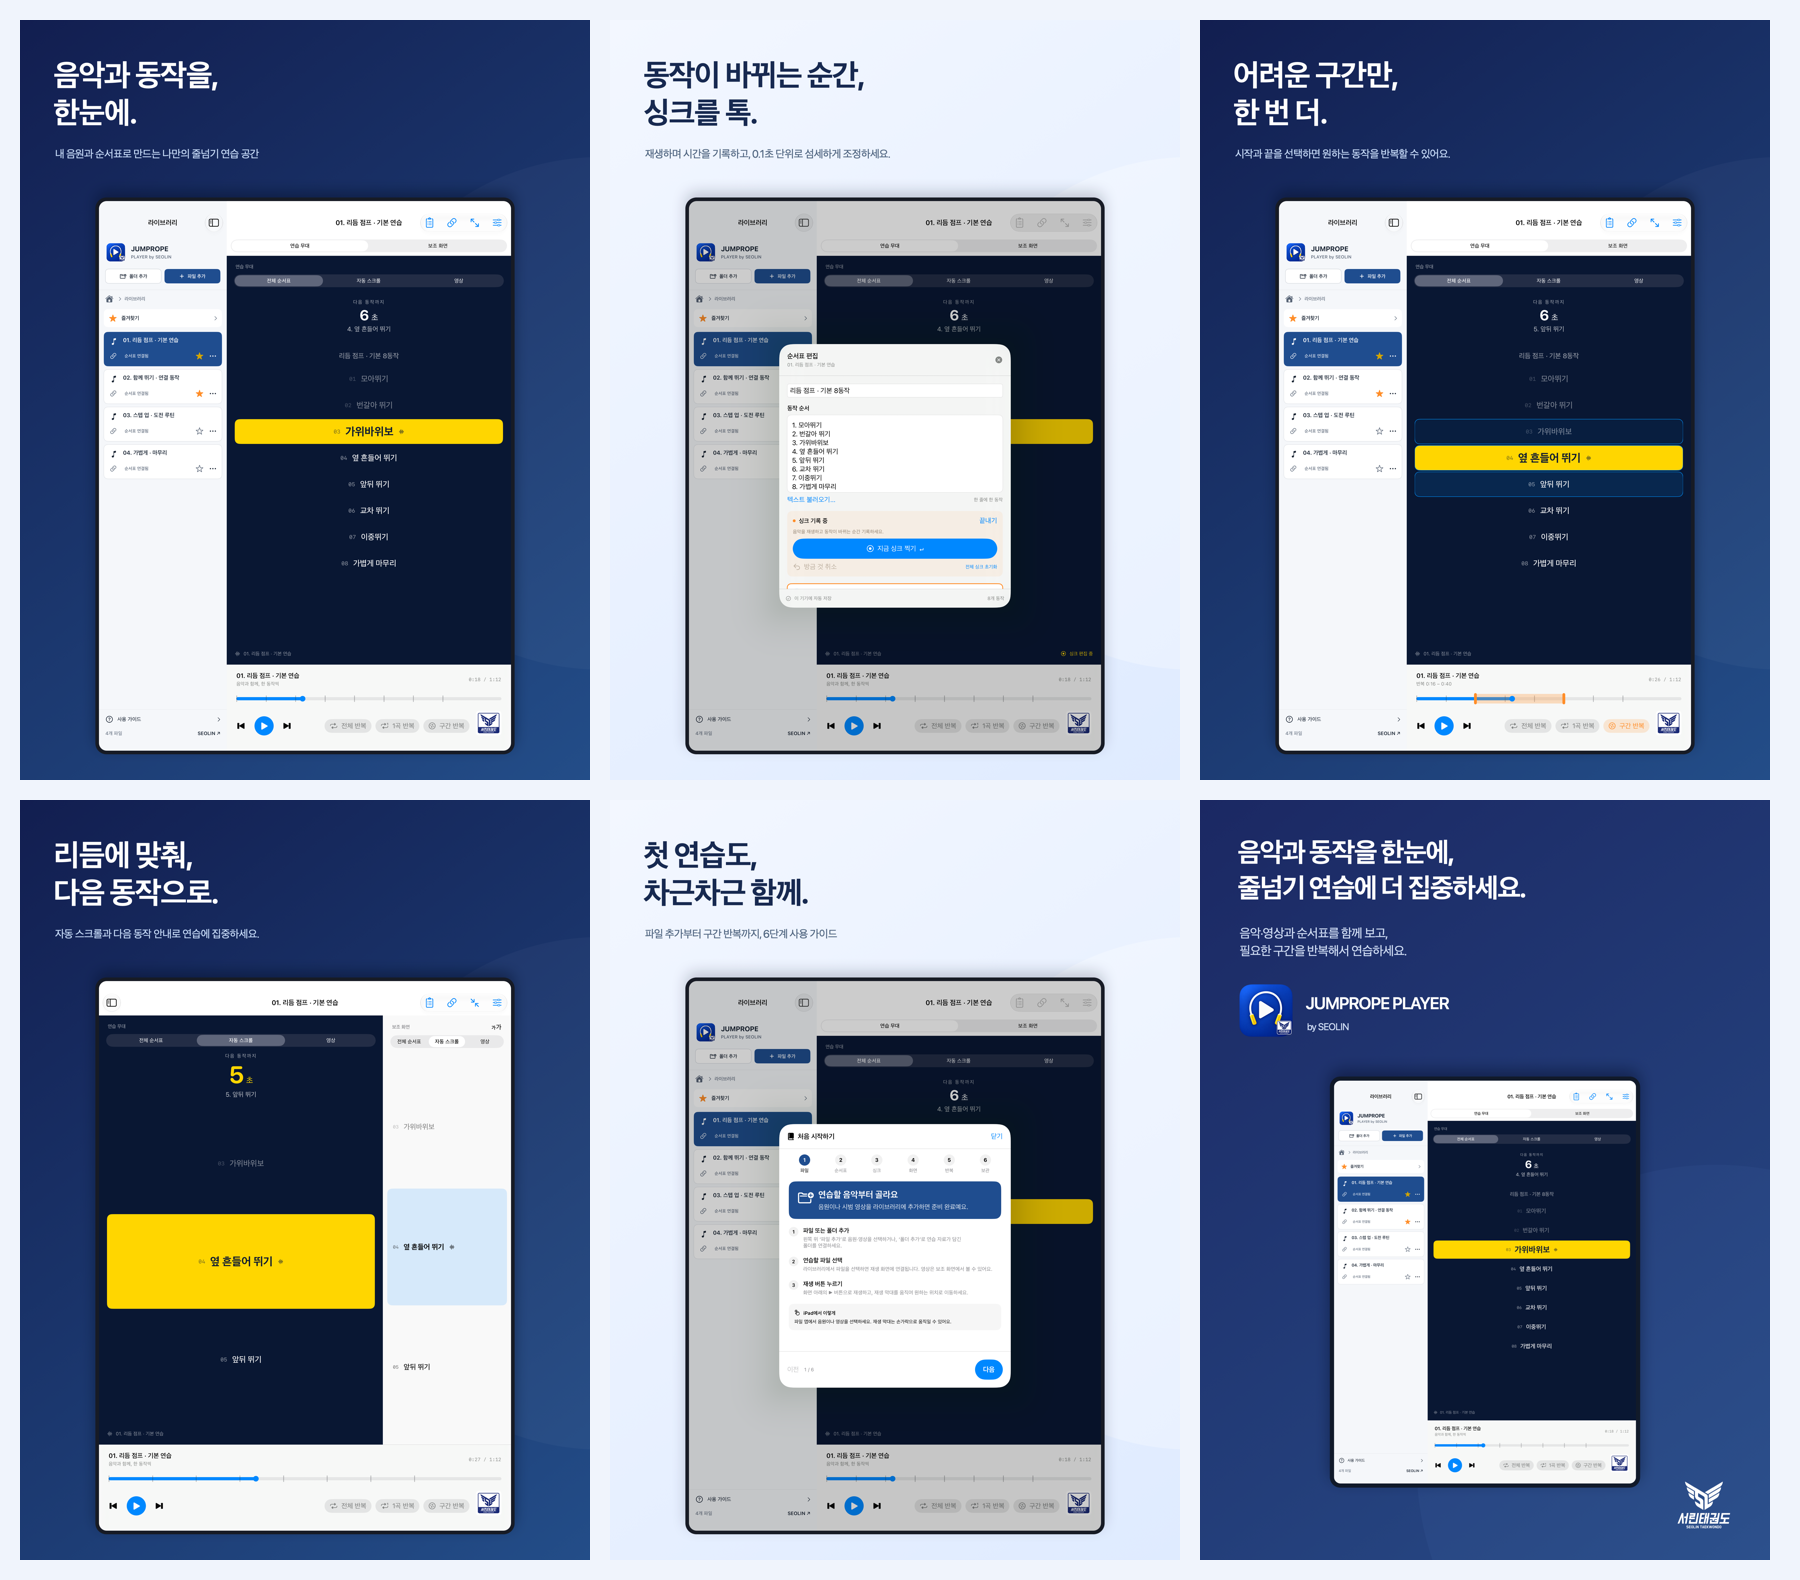
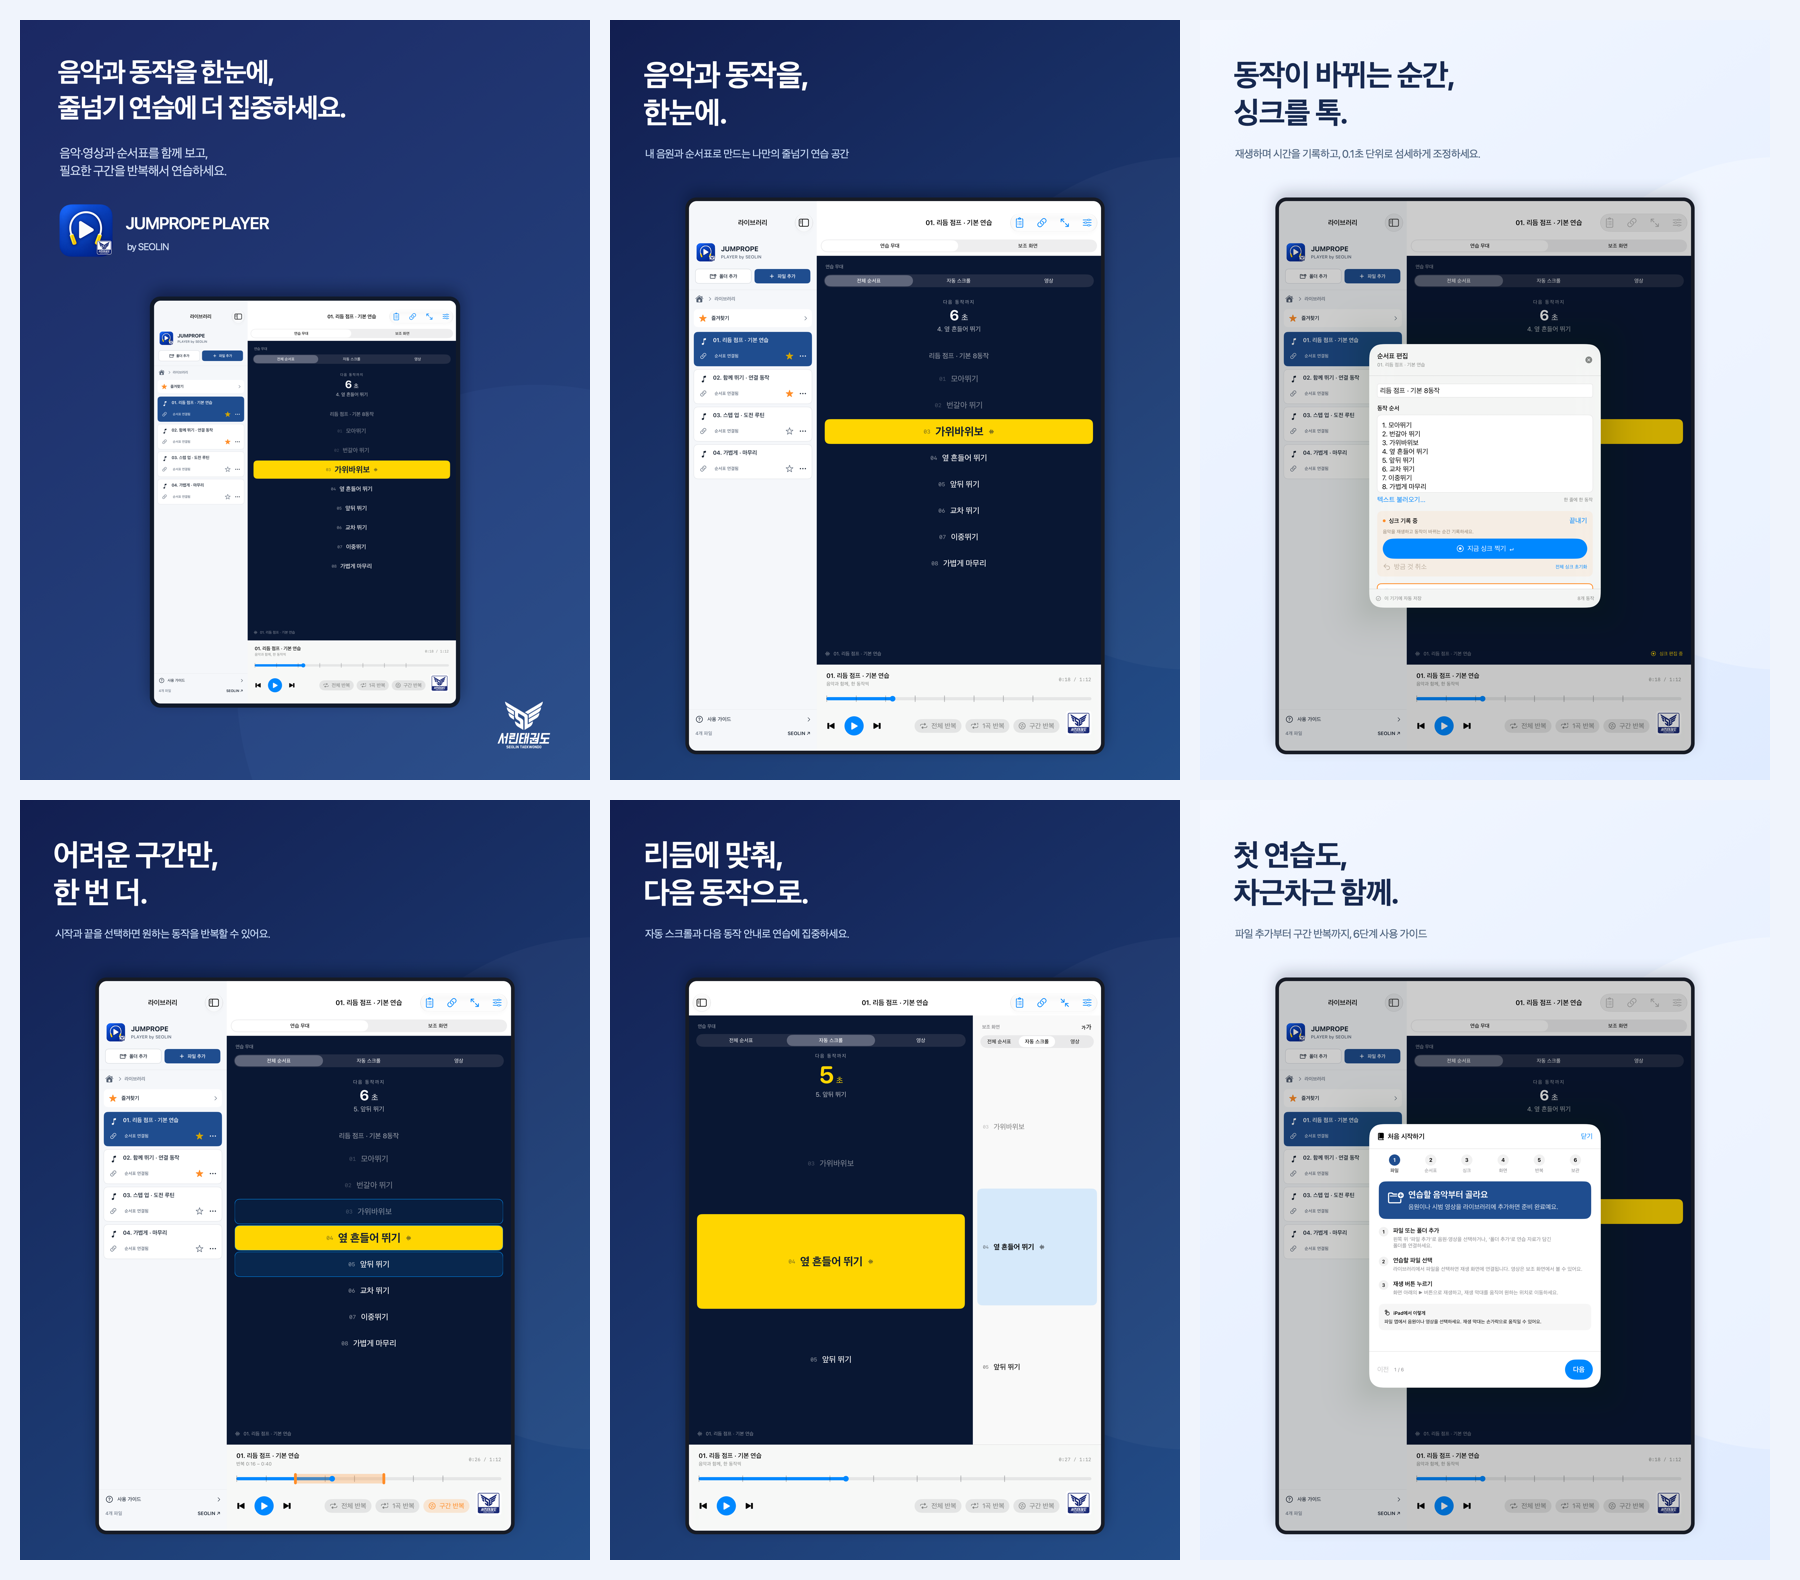
[docs] 소개 이미지를 첫 순서로 정리

diff --git a/Scripts/render_store_intro.swift b/Scripts/render_store_intro.swift
@@ -103,7 +103,7 @@ for (platform, prefix, width, height) in [("macOS", "mac", 2880, 1800), ("iPadOS
     let overview = canvas(1800, mac ? 760 : 1580)
     overview.setFillColor(color(0xF0F4FC).cgColor)
     overview.fill(CGRect(x: 0, y: 0, width: 1800, height: mac ? 760 : 1580))
-    for (i, file) in ["01-practice", "02-sync", "03-repeat", "04-scroll", "05-guide", "06-intro"].enumerated() {
+    for (i, file) in ["06-intro", "01-practice", "02-sync", "03-repeat", "04-scroll", "05-guide"].enumerated() {
         let item = load(base.appendingPathComponent("ko-KR/\(platform)/\(file).png"))
         let thumbWidth: CGFloat = 570, thumbHeight = thumbWidth * CGFloat(item.height) / CGFloat(item.width)
         image(item, CGRect(x: CGFloat(i % 3) * 590 + 20, y: CGFloat(i / 3) * (thumbHeight + 20) + 20,

diff --git a/Marketing/AppStore/README.md b/Marketing/AppStore/README.md
@@ -6,18 +6,18 @@
 
 - `ko-KR/macOS`: 2880×1800 PNG 6장
 - `ko-KR/iPadOS`: 2064×2752 PNG 6장 (13인치 iPad 세로)
-- 모든 파일: sRGB, 불투명 RGB. App Store Connect에서 파일명 순서대로 등록한다. 06-intro는 기존 다섯 장 뒤에 추가한 앱 소개 이미지다.
+- 모든 파일: sRGB, 불투명 RGB. App Store Connect에서는 `06-intro`를 첫 번째로, 기존 `01-practice`~`05-guide`를 그 다음 순서로 등록한다. 파일명은 원본 구분을 위해 유지한다.
 - `Overview`는 검토용 모아보기로, App Store에 업로드하지 않는다.
 - Apple 용어상 이번 결과는 **스크린샷 이미지**다. 'App Preview' 동영상은 포함하지 않는다.
 
-| 순서 | 화면 | 소개 문구 |
-| --- | --- | --- |
-| 01 | 연습 무대와 라이브러리 | 음악과 동작을, 한눈에. |
-| 02 | 순서표 싱크 편집 | 동작이 바뀌는 순간, 싱크를 톡. |
-| 03 | 구간 반복 | 어려운 구간만, 한 번 더. |
-| 04 | 자동 스크롤·집중 보기 | 리듬에 맞춰, 다음 동작으로. |
-| 05 | 사용 가이드 | 첫 연습도, 차근차근 함께. |
-| 06 | 앱 소개 · 실제 연습 화면 | 음악과 동작을 한눈에, 줄넘기 연습에 더 집중하세요. |
+| 순서 | 파일 | 화면 | 소개 문구 |
+| --- | --- | --- | --- |
+| 01 | 06-intro | 앱 소개 · 실제 연습 화면 | 음악과 동작을 한눈에, 줄넘기 연습에 더 집중하세요. |
+| 02 | 01-practice | 연습 무대와 라이브러리 | 음악과 동작을, 한눈에. |
+| 03 | 02-sync | 순서표 싱크 편집 | 동작이 바뀌는 순간, 싱크를 톡. |
+| 04 | 03-repeat | 구간 반복 | 어려운 구간만, 한 번 더. |
+| 05 | 04-scroll | 자동 스크롤·집중 보기 | 리듬에 맞춰, 다음 동작으로. |
+| 06 | 05-guide | 사용 가이드 | 첫 연습도, 차근차근 함께. |
 
 ## 원본과 재제작
 

diff --git a/Docs/APP_STORE_UPLOAD.md b/Docs/APP_STORE_UPLOAD.md
@@ -75,7 +75,7 @@ Mac과 iPad 모두 빌드 1.0.0 (2)를 연결하고 `심사에 추가` 필수값
 2026-10-13, `add/#30-storeIntro`에서 사용자가 확정한 문구로 `06-intro.png`를 플랫폼별로 제작했다. Mac은 예시와 같은 좌측 소개·우측 실제 화면을 유지했다. iPad는 후속 요청에 따라 제목을 “음악과 동작을 한눈에, / 줄넘기 연습에 더 집중하세요.” 두 줄로 정리하고 목업을 가로 중앙에 정렬했다. 두 이미지 모두 기존 실제 캡처와 앱 아이콘·서린 로고를 사용한다.
 
 - Mac 2880×1800, iPad 2064×2752, 불투명 sRGB PNG 규격과 텍스트 잘림·배치를 확인했다.
-- 기존 01~05를 유지하고 한국어 스크린샷 목록 끝에 소개 이미지를 1장씩 추가했다. App Store Connect에서 각 6장을 확인했다.
+- 기존 01~05를 유지하고 한국어 스크린샷에 소개 이미지를 1장씩 추가하고 사용자 요청에 따라 두 플랫폼 모두 첫 번째에 배치했다. App Store Connect에서 각 6장을 확인했다.
 - 이미지 편집을 위해 각 버전을 제출 초안에서 잠시 분리한 뒤, 자동 저장 완료 후 `심사에 추가`로 제출 준비 초안을 복원했다. 실제 `심사를 위해 제출`은 실행하지 않았다.
 - 빌드 1.0.0 (2), 설명·지원·정책·출시 설정은 유지했다. 앱 코드 변경이 없어 새 아카이브나 바이너리 업로드는 만들지 않았다.
 - 바탕화면 `JUMPROPE_AppStore_미리보기_20261013` 폴더와 ZIP도 새 이미지·모아보기·안내로 갱신했다.
